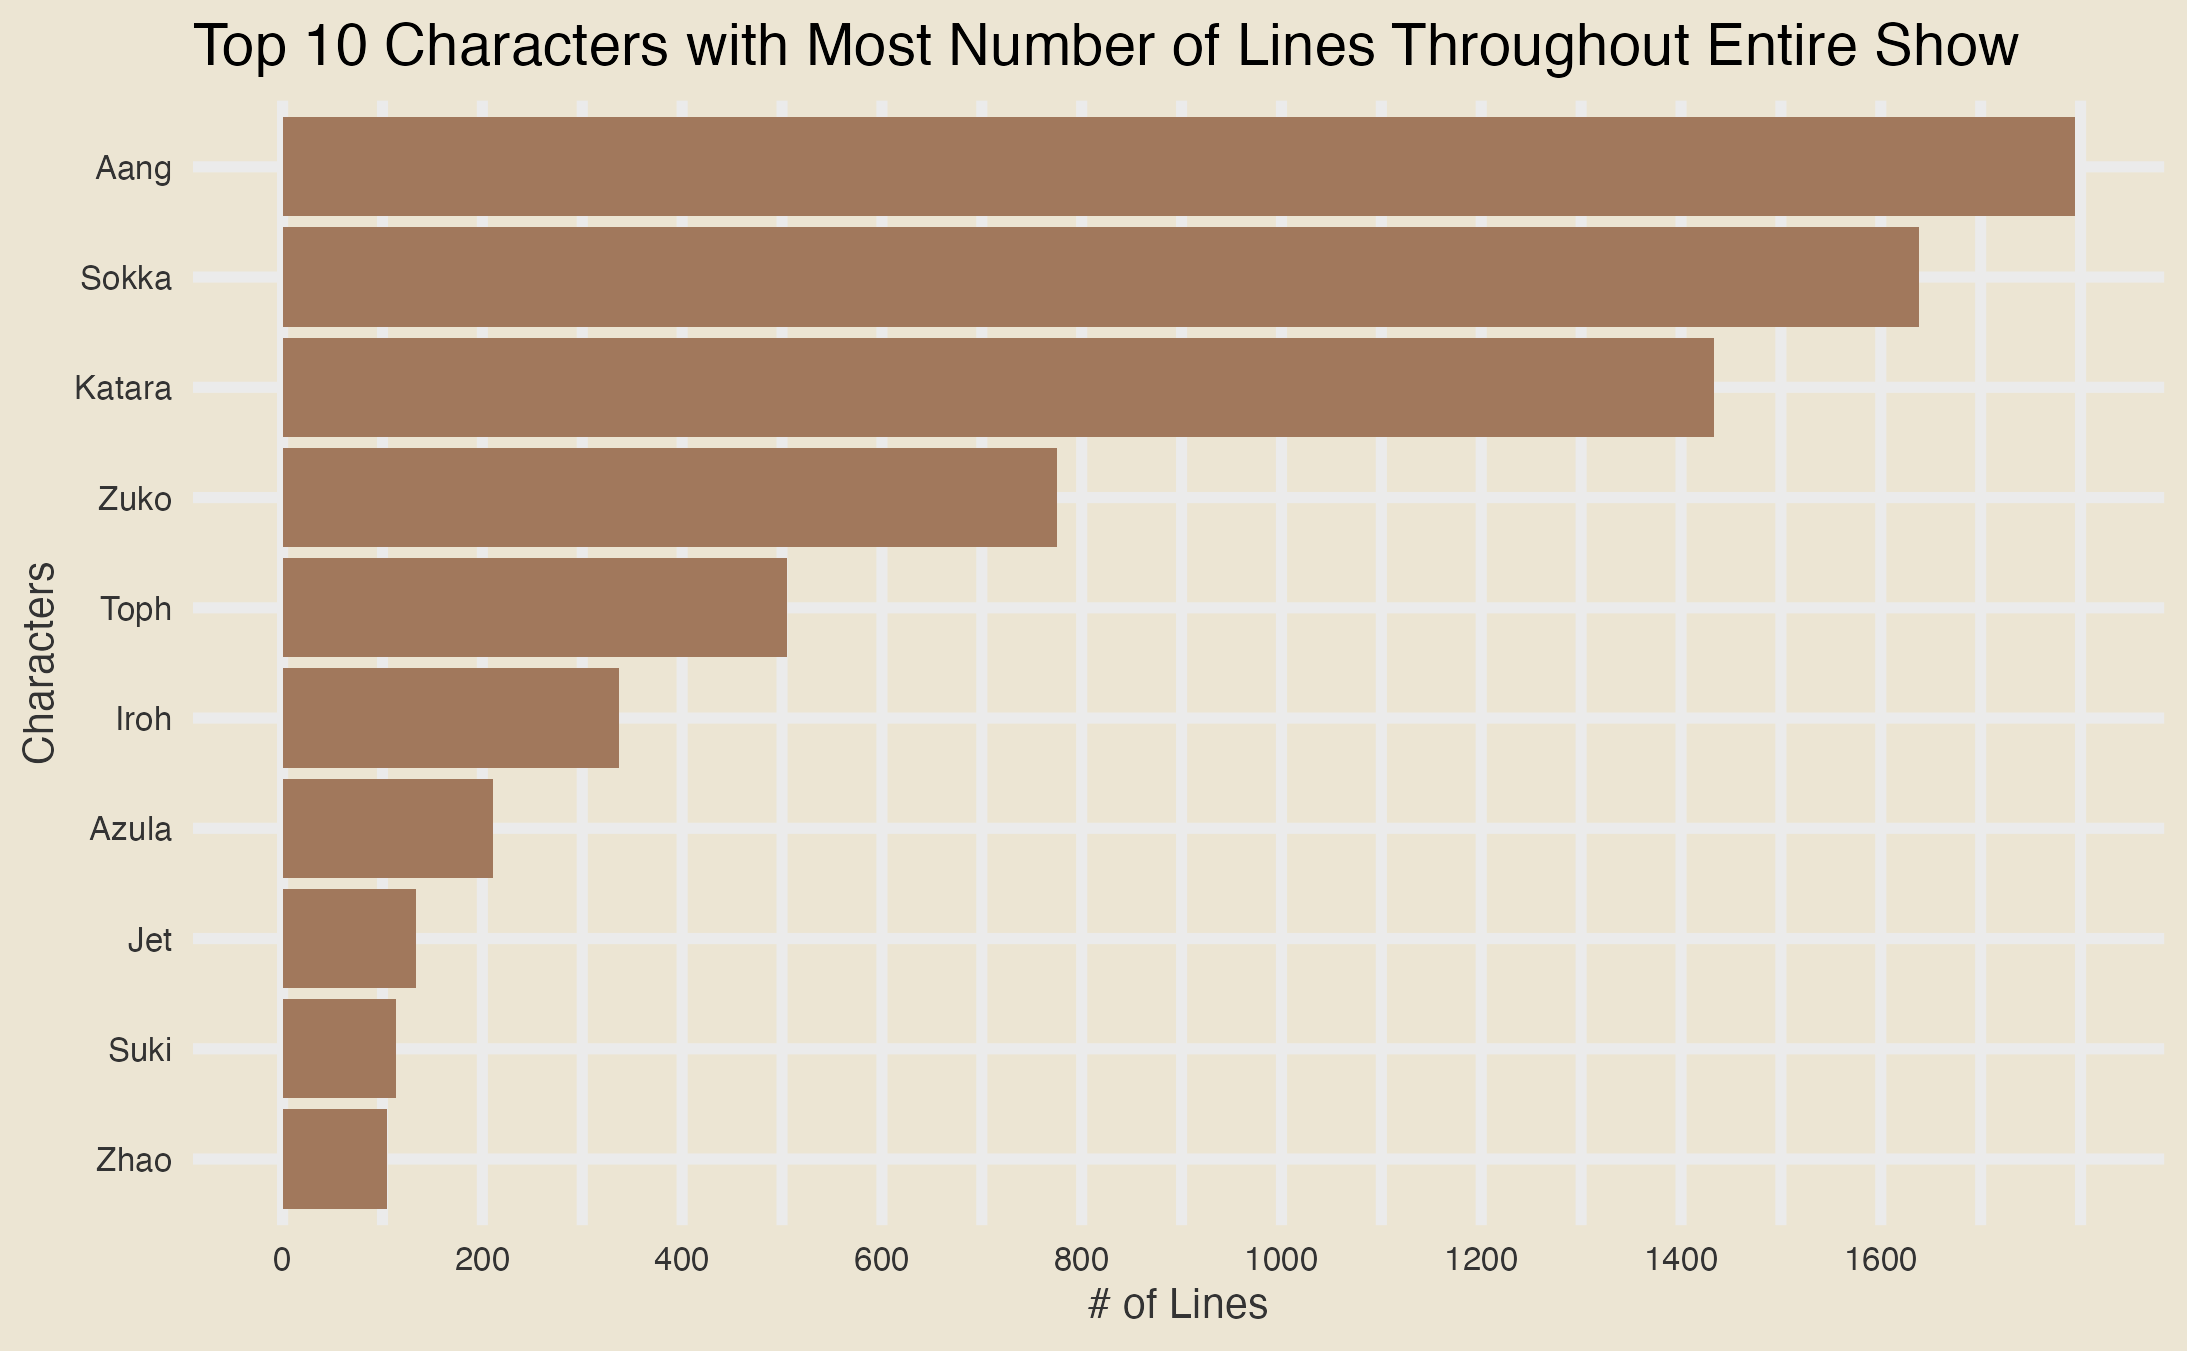
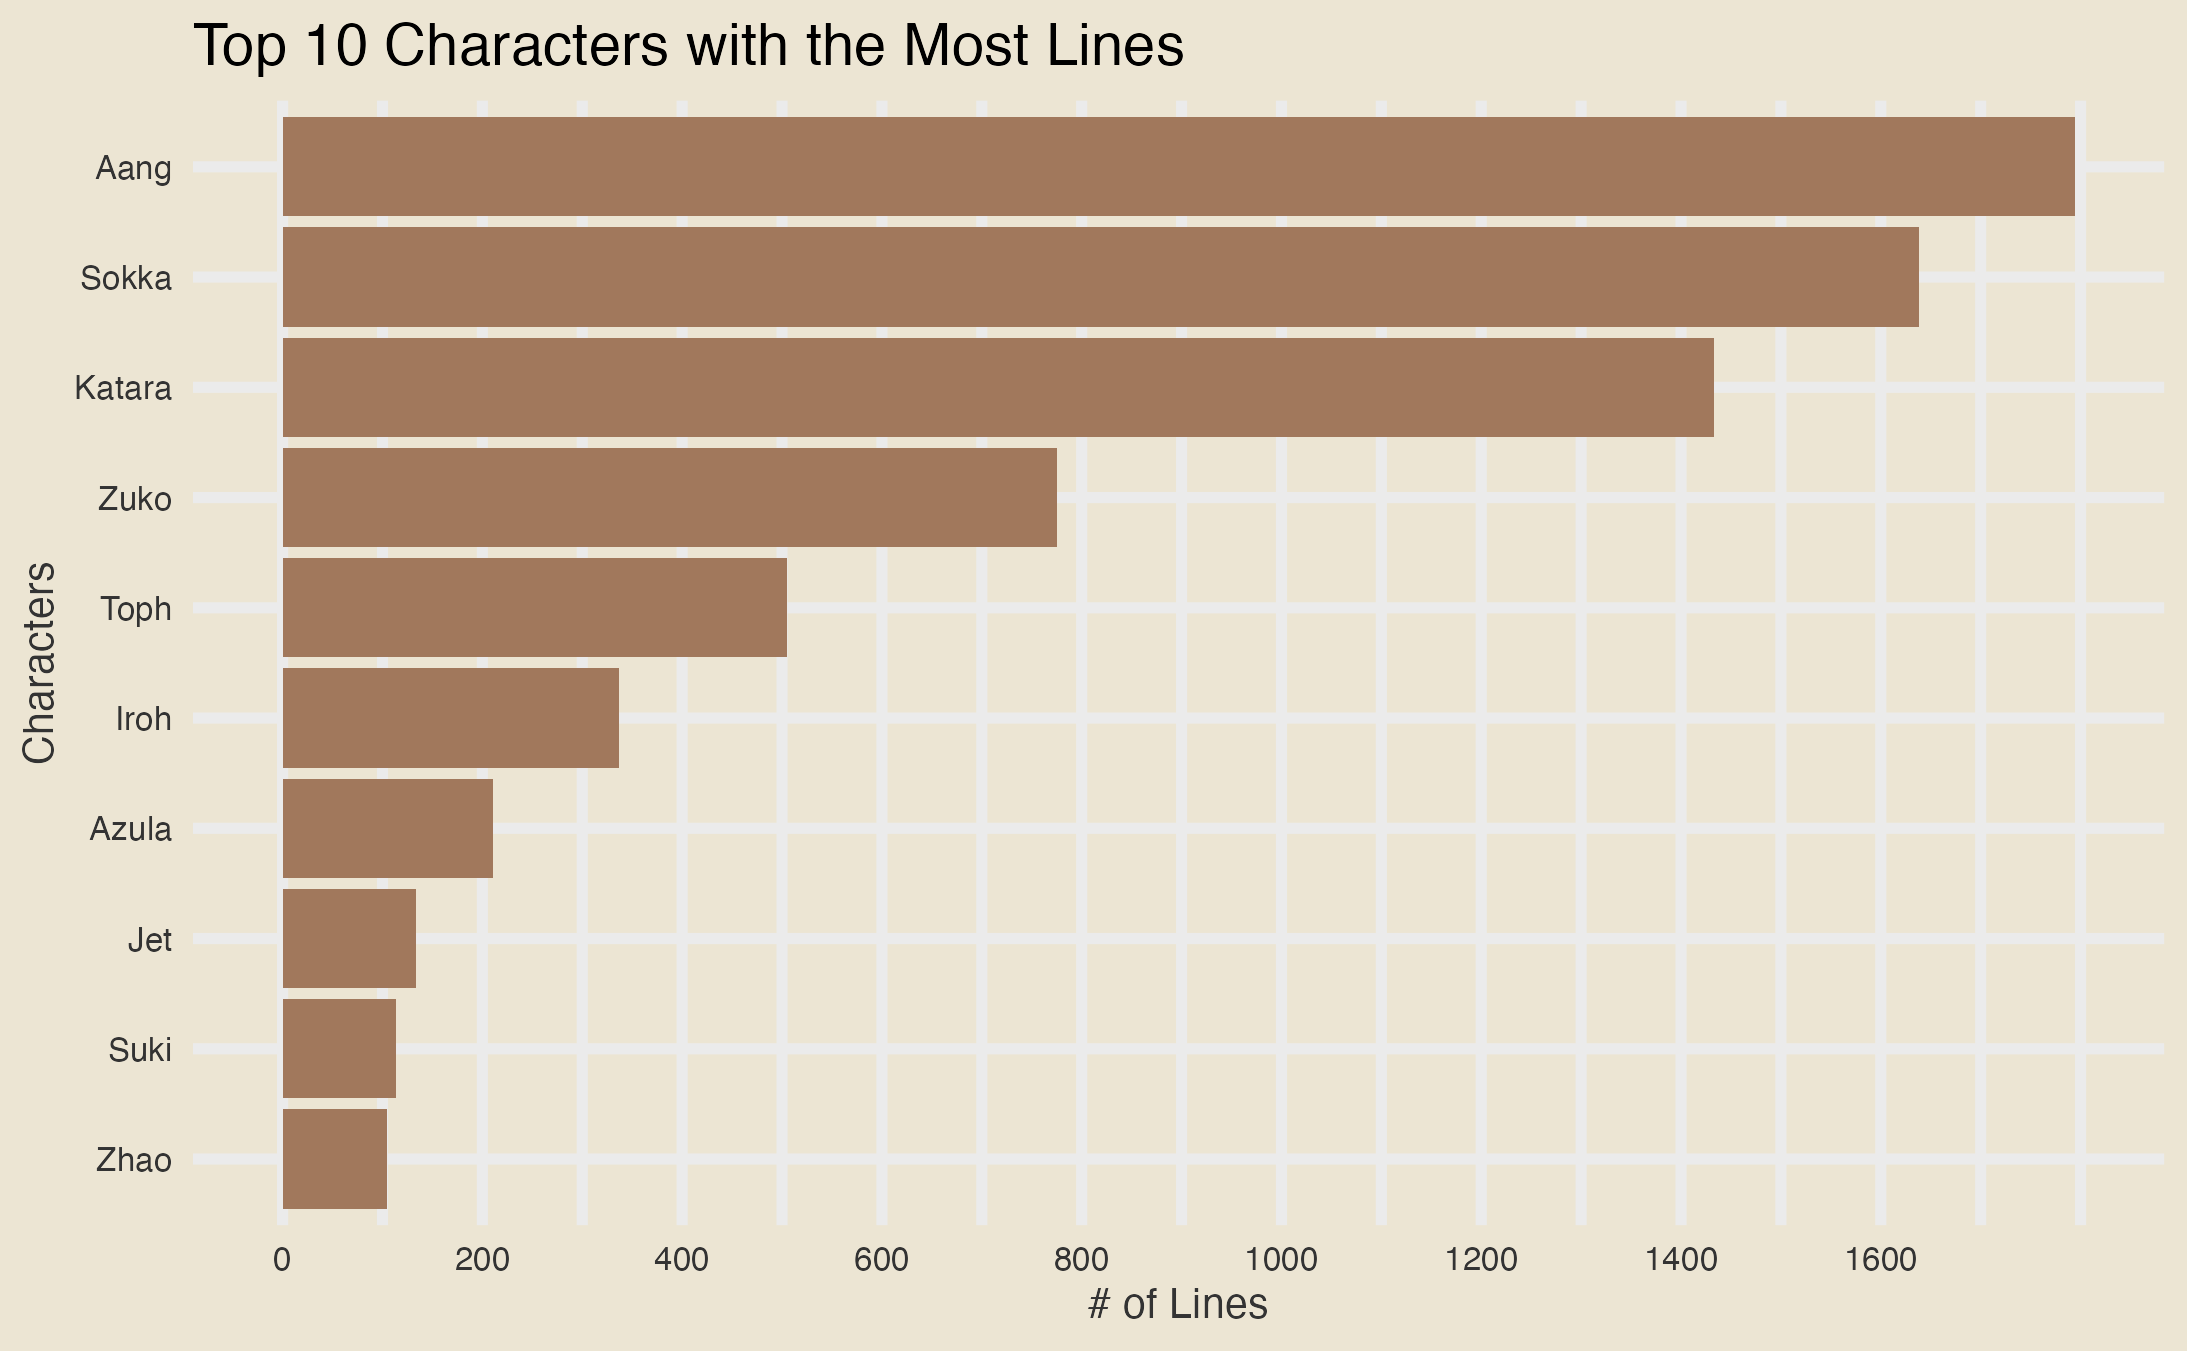
Final graph analysis and title change to graph

Changed region(s): [[0.3731, 0.0, 0.9328, 0.0622]]

diff --git a/docs/results.html b/docs/results.html
@@ -195,7 +195,7 @@ ul.task-list li input[type="checkbox"] {
 <figcaption>The Top 10 Avatar the Last Airbender Characters with the Most Dialogues/Lines</figcaption>
 </figure>
 </div>
-<p>With no surprise, the main characters in Team Avatar, Aang, Katara, Sokka, Toph, and Zuko, were among the top 10 with the most dialogues/lines throughout the show, where Aang had the most dialogue of about 25%. Thus, answering the first part of our question of how often Aang speaks throughout the show. Additionally, we can see that the male characters in Team Avatar spoke way more than the female characters. The males spoke about 68% of the time in Team Avatar, whereas the females spoke about 32%. Lastly, we can see important characters like Iroh, Azula, and Suki were among the top 10, which makes sense as each played a significant role in some member’s development in Team Avatar.</p>
+<p>With no surprise, the main characters in Team Avatar, Aang, Katara, Sokka, Toph, and Zuko, were among the top 10 with the most dialogues/lines throughout the show, where Aang had the most dialogue of about 25%. Thus, answering the first part of our question of how often Aang speaks throughout the show. Additionally, we can see that the male characters in Team Avatar spoke way more than the female characters where the males spoke about 68% of the time in Team Avatar, whereas the females spoke about 32%. Lastly, we can see important characters like Iroh, Azula, and Suki were among the top 10, which makes sense as each played a significant role in some member’s development in Team Avatar.</p>
 <p>However, one thing about this graph that caught our attention was that side characters like Zhao and Jet were among the top 10. This piqued our interest as we recall them appearing infrequently in the show. As a result, this made us curious where we decided to see how many episodes each of these top 10 characters with the most dialogues/lines were in.</p>
 <section id="top-10-avatar-the-last-airbender-character-with-the-most-dialogue-episode-appearances" class="level4" data-number="3.1.1.1">
 <h4 data-number="3.1.1.1" class="anchored" data-anchor-id="top-10-avatar-the-last-airbender-character-with-the-most-dialogue-episode-appearances"><span class="header-section-number">3.1.1.1</span> Top 10 Avatar the Last Airbender Character with the Most Dialogue Episode Appearances</h4>
@@ -217,6 +217,8 @@ ul.task-list li input[type="checkbox"] {
 <figcaption>Top 10 Character Dialogue/Lines Per Book</figcaption>
 </figure>
 </div>
+<p>Having answered the first question of how often Aang speaks in the show, to answer the second part of our question of how much he speaks per season, we decided to keep the top 10 characters with the most dialogue and found the frequency of each per season. From this, we can see that Aang speaks less per season. Starting from the Water Book Chapter, he had a marginal amount of dialogue compared to all the other top 10 characters, where he had more than 150 lines than Katara, who was number 2. However, this began to change during the Earth Book Chapter, where his dialogue dropped by 300, leading Sokka to overtake him in both the Earth and Fire Book Chapter. Thus, answering our second part where, among the members of Team Avatar, only Sokka began to talk more than Aang.</p>
+<p>Although this graph was mainly created to help answer the second part of the question, it still is really meaningful as it also allows us to observe how important each character becomes and their roles during each season. For instance, we can see that Zhao had a pretty important role during the Water Book Chapter but not the Earth and Fire Book Chapter, as his number of dialogues dropped to 0. Another example that we can see from the graph is the rising importance of Toph, Zuko, and Suki towards the show as their number of dialogues began to increase each season.</p>
 </section>
 </section>
 <section id="what-are-the-trends-of-imdb-ratings-throughout-the-show" class="level2" data-number="3.2">

diff --git a/docs/index.html b/docs/index.html
@@ -8,7 +8,7 @@
 
 <meta name="author" content="Jason Cheung (jc6405)">
 <meta name="author" content="Rogelio Lopez Camara (rl3499)">
-<meta name="dcterms.date" content="2024-12-08">
+<meta name="dcterms.date" content="2024-12-09">
 
 <title>Avatar the Last Airbender</title>
 <style>
@@ -178,7 +178,7 @@ ul.task-list li input[type="checkbox"] {
     <div>
     <div class="quarto-title-meta-heading">Published</div>
     <div class="quarto-title-meta-contents">
-      <p class="date">December 8, 2024</p>
+      <p class="date">December 9, 2024</p>
     </div>
   </div>
   
